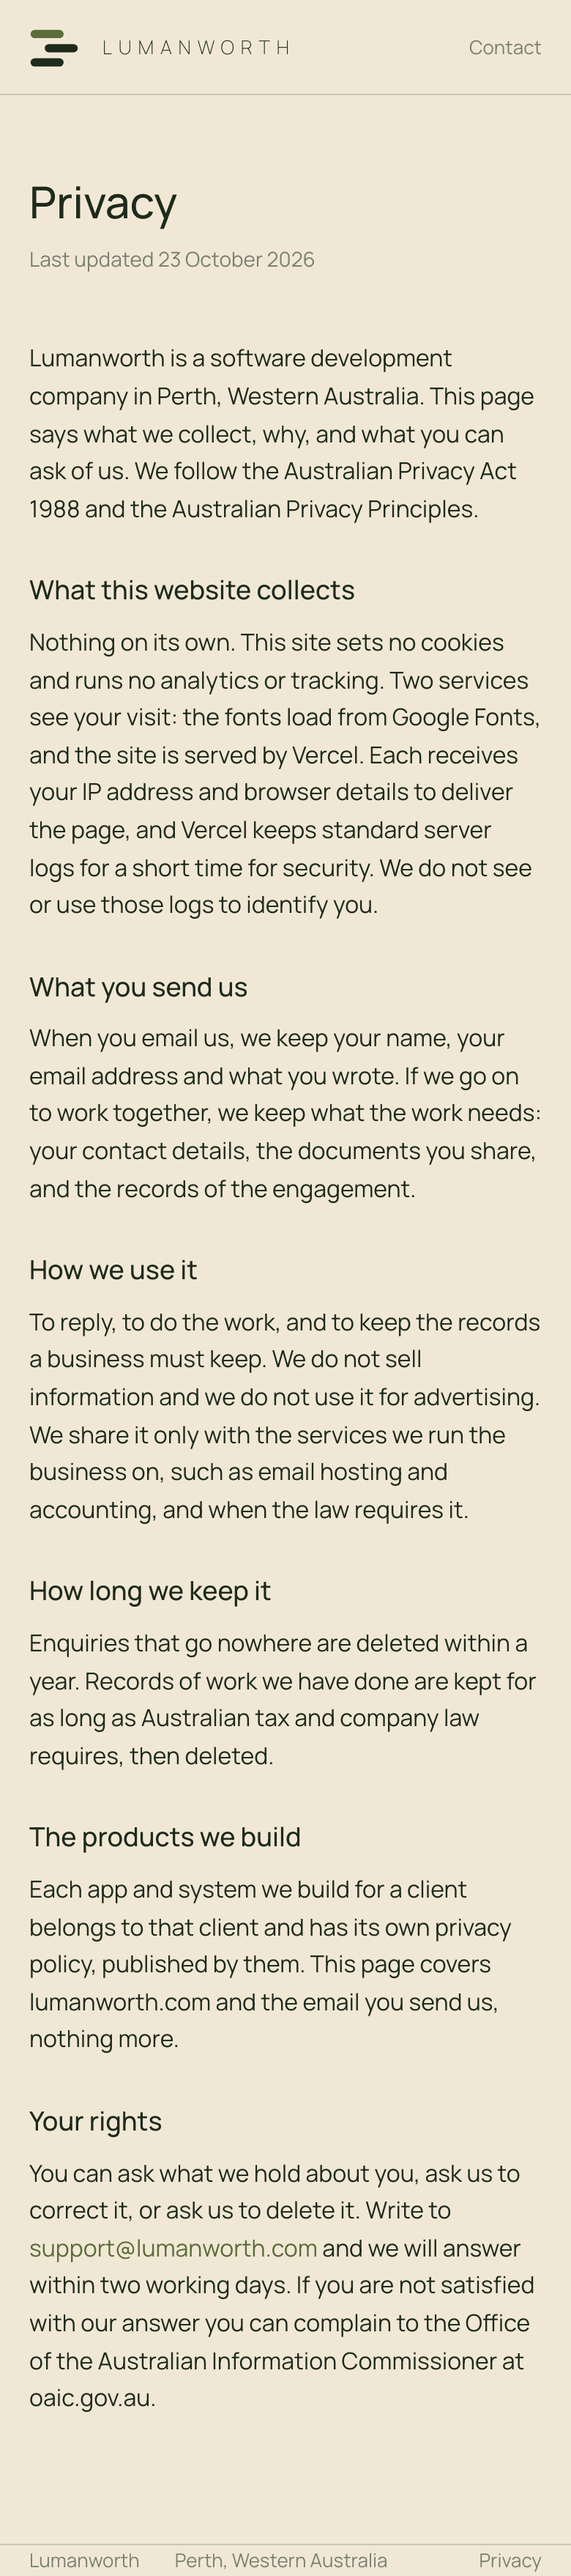
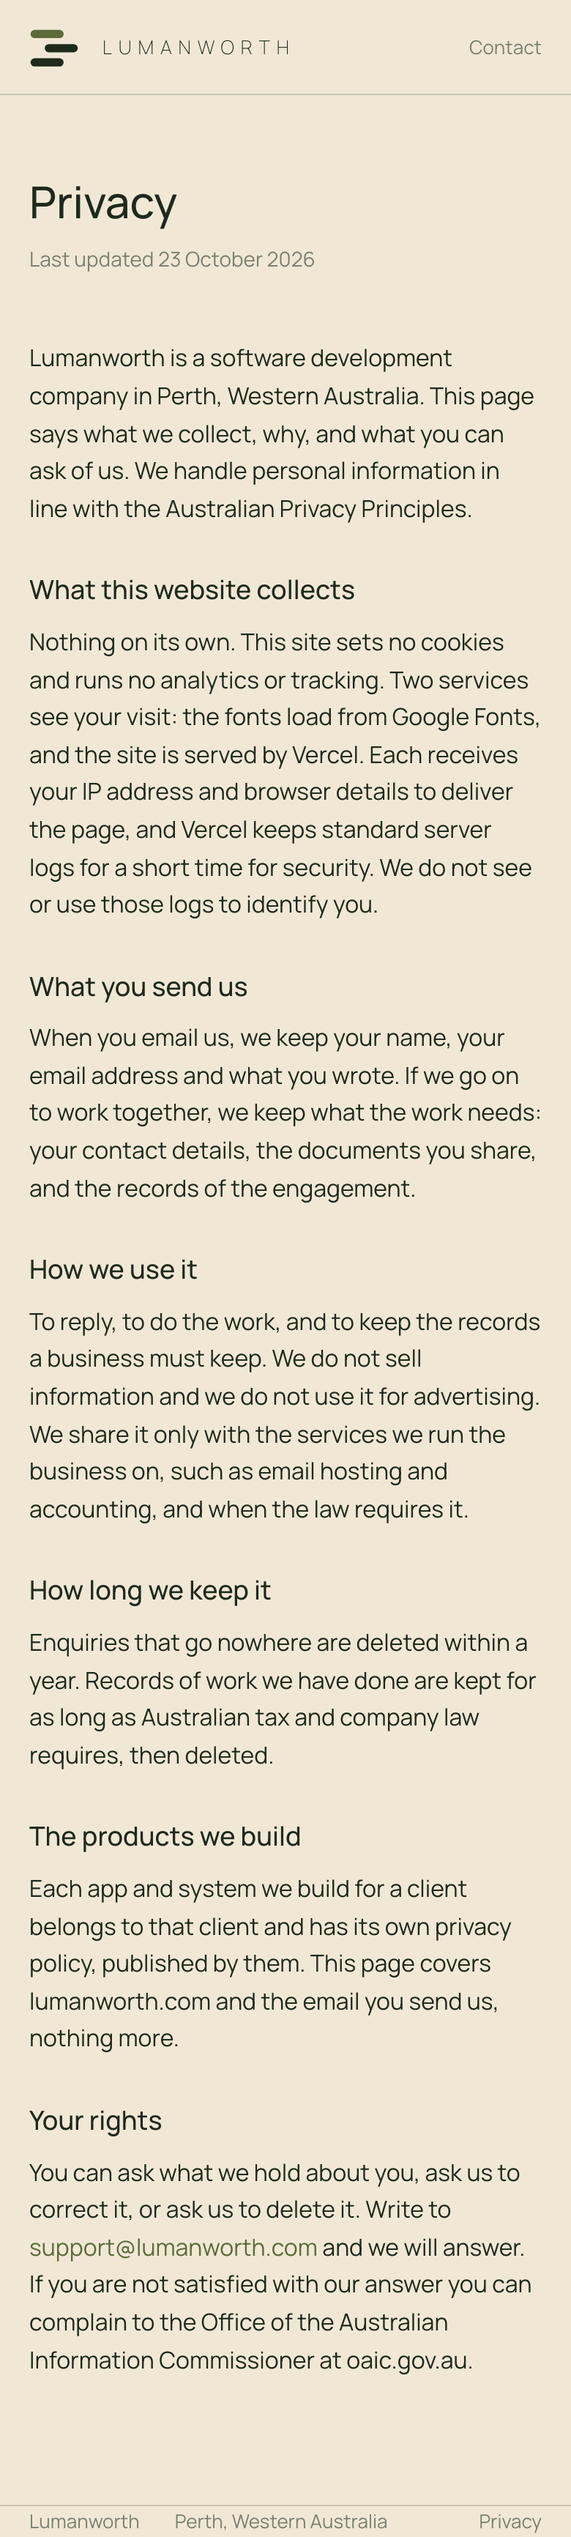
Website: red team fixes, one mark, no stack

Changed region(s): [[0.0308, 0.0624, 0.9538, 0.9353], [0.0615, 0.0624, 0.0923, 0.0935]]

diff --git a/index.html b/index.html
@@ -1,6 +1,6 @@
 <!doctype html><html lang="en-AU"><head><meta charset="utf-8"><meta name="viewport" content="width=device-width,initial-scale=1"><link rel="icon" href="assets/icon-32.png" sizes="32x32"><link rel="apple-touch-icon" href="assets/icon-180.png">
 <title>Lumanworth</title>
-<meta name="description" content="Lumanworth is a private software company in Perth, Western Australia. We design, build and run websites, apps and enterprise systems for other companies.">
+<meta name="description" content="Lumanworth is a private software company in Perth, Western Australia. We design, build and run websites, apps and business systems for other companies.">
 <link rel="preconnect" href="https://fonts.googleapis.com"><link href="https://fonts.googleapis.com/css2?family=Manrope:wght@200;400;500&display=swap" rel="stylesheet">
 <style>
 :root{--ink:#1E2A1C;--moss:#5B6B3A;--bark:#4A3220;--cream:#F0E8D5;--line:#CAC6B4;--mute:#7B8071;--card:#F9F6EE}
@@ -58,43 +58,43 @@ footer{flex-wrap:wrap;gap:12px 24px;padding:28px 20px}footer span:last-child{mar
 <header><div class="wrap bar"><a class="brand" href="/"><svg viewBox="0 0 42 36" width="34" height="29"><rect x="1" y="3" width="28" height="7" rx="3.5" fill="#5B6B3A"/><rect x="13" y="15" width="28" height="7" rx="3.5" fill="#1E2A1C"/><rect x="1" y="27" width="28" height="7" rx="3.5" fill="#1E2A1C"/></svg><span class="wm">Lumanworth</span></a><nav><a class="hide" href="#build">What we build</a><a class="hide" href="#how">How we work</a><a class="hide" href="#company">Company</a><a href="#contact">Contact</a></nav></div></header>
 <div class="wrap hero">
 <div><h1>Software, built properly.</h1>
-<p class="lede">Lumanworth is a private software company in Perth, Western Australia. We design, build and run websites, apps and enterprise systems for other companies.</p>
+<p class="lede">Lumanworth is a private software company in Perth, Western Australia. We design, build and run websites, apps and business systems for other companies.</p>
 <a class="btn p" href="#contact">Get in touch</a></div>
-<svg viewBox="0 0 42 36" aria-hidden="true"><rect x="1" y="3" width="28" height="7" rx="3.5" fill="#5B6B3A"/><rect x="13" y="15" width="28" height="7" rx="3.5" fill="#1E2A1C"/><rect x="1" y="27" width="28" height="7" rx="3.5" fill="#4A3220"/></svg>
+<svg viewBox="0 0 42 36" aria-hidden="true"><rect x="1" y="3" width="28" height="7" rx="3.5" fill="#5B6B3A"/><rect x="13" y="15" width="28" height="7" rx="3.5" fill="#1E2A1C"/><rect x="1" y="27" width="28" height="7" rx="3.5" fill="#1E2A1C"/></svg>
 </div>
 
 <section id="build"><div class="wrap"><h2>What we build</h2>
 <div class="g3">
-<div class="card"><div class="ln"></div><h3>Websites</h3><p>Company sites, product sites and the pages behind a campaign. Fast, accessible, measured, and kept that way after launch.</p></div>
-<div class="card"><div class="ln" style="background:#1E2A1C"></div><h3>Apps</h3><p>iOS, Android and web. Bookings, rostering, dispatch, memberships, payments and the admin behind them.</p></div>
-<div class="card"><div class="ln" style="background:#4A3220"></div><h3>Enterprise systems</h3><p>Systems for regulated and industrial work: audit trails, offline capture, role based access, migrations and release evidence.</p></div>
+<div class="card"><div class="ln"></div><h3>Websites</h3><p>Company and product sites. Fast, accessible and kept that way after launch.</p></div>
+<div class="card"><div class="ln" style="background:#1E2A1C"></div><h3>Apps</h3><p>iOS, Android and web. Bookings, rostering, payments and the admin behind them.</p></div>
+<div class="card"><div class="ln" style="background:#4A3220"></div><h3>Systems</h3><p>The complex ones: many users, many roles, records that have to hold up, and the reporting on top.</p></div>
 </div></div></section>
 
 <section id="how"><div class="wrap"><h2>How we work</h2>
 <div class="g4">
 <div><span class="num">01</span><h3>Brief</h3><p>We read everything you have and write back one page in plain words. The first stage is agreed before anyone quotes.</p></div>
 <div><span class="num">02</span><h3>Design</h3><p>Flows before screens. You see and accept the pictures before we build them.</p></div>
-<div><span class="num">03</span><h3>Build and review</h3><p>Small changes, independent review, tests on every one. Sign in, data and payments get a second reviewer.</p></div>
-<div><span class="num">04</span><h3>Release</h3><p>Preview first, then live on your approval, with a changelog you can read and a runbook your people can follow.</p></div>
+<div><span class="num">03</span><h3>Build</h3><p>Small changes, each reviewed and tested before it goes anywhere near a customer.</p></div>
+<div><span class="num">04</span><h3>Release</h3><p>You see it on a preview first. It goes live on your approval, with a changelog you can read.</p></div>
 </div></div></section>
 
 <section class="dark"><div class="wrap"><h2>What you get</h2>
 <div class="kv2">
-<div><b>Your code, your accounts, your data</b><p>Every repository, hosting account and database is set up in your name from the first day. Nothing is held back and nothing is rented to you.</p></div>
-<div><b>Reviewed before it ships</b><p>Every change is reviewed and tested before it reaches a customer. Security sensitive work gets a second, independent review.</p></div>
-<div><b>Written down</b><p>A runbook, a changelog and decision records, so the next engineer, yours or ours, can pick the product up cold.</p></div>
-<div><b>Run, not just built</b><p>We can keep operating what we build: monitoring, updates, support and releases, on a retainer or until your own team takes it on.</p></div>
+<div><b>Your code, your accounts, your data</b><p>What we build for you is set up in your name. Ownership is agreed in writing before work starts.</p></div>
+<div><b>Reviewed before it ships</b><p>Every change is reviewed and tested before release. Sign in, data and payments are reviewed again against a written checklist.</p></div>
+<div><b>Written down</b><p>A runbook and a changelog with every product, so the next engineer can pick it up cold.</p></div>
+<div><b>Run, not just built</b><p>We can keep operating what we build, with updates, support and releases, until your own team takes it on.</p></div>
 </div></div></section>
 
-<section id="company"><div class="wrap g2"><div><h2>The company</h2><p style="color:var(--mute);font-size:16px;max-width:400px">Lumanworth is privately owned and run from Perth. We work with a small number of clients at a time, directly with the people who own the product.</p></div>
+<section id="company"><div class="wrap g2"><div><h2>The company</h2><p style="color:var(--mute);font-size:16px;max-width:400px">Lumanworth is privately owned, founder led and run from Perth. We work directly with the people who own the product.</p></div>
 <div class="facts">
 <span>Based</span><span>Perth, Western Australia</span>
-<span>Work</span><span>Websites, apps and enterprise systems, built for clients and operated on request</span>
-<span>Stack</span><span>TypeScript, Next.js, React Native, Postgres, hosted on Vercel and Supabase, Australian regions where the client needs them</span>
+<span>Work</span><span>Websites, apps and business systems, built for clients and run on request</span>
 <span>Clients</span><span>By introduction. We do not advertise and we do not publish client names.</span>
+<span>Company</span><span>Lumanworth Pty Ltd, registration in progress</span>
 </div></div></section>
 
-<section id="contact"><div class="wrap g2"><div><h2>Contact</h2></div><div><p style="font-size:18px;max-width:520px;line-height:1.6">Write to <a href="mailto:support@lumanworth.com" style="color:var(--moss)">support@lumanworth.com</a> with what you are building and who sent you.</p><p style="color:var(--mute);margin-top:18px;font-size:15px">We reply within two working days.</p></div></div></section>
+<section id="contact"><div class="wrap g2"><div><h2>Contact</h2></div><div><p style="font-size:18px;max-width:520px;line-height:1.6">Write to <a href="mailto:support@lumanworth.com" style="color:var(--moss)">support@lumanworth.com</a> with what you are building and who sent you.</p><p style="color:var(--mute);margin-top:18px;font-size:15px">We reply to introductions we can help with.</p></div></div></section>
 
 <footer class="wrap"><span>Lumanworth</span><span>Perth, Western Australia</span><a style="margin-left:auto" href="/privacy">Privacy</a></footer>
 </body></html>

diff --git a/privacy.html b/privacy.html
@@ -52,7 +52,7 @@ footer{flex-wrap:wrap;gap:12px 24px;padding:28px 20px}footer span:last-child{mar
 <div class="wrap prose">
 <h1>Privacy</h1>
 <p class="date">Last updated 23 October 2026</p>
-<p>Lumanworth is a software development company in Perth, Western Australia. This page says what we collect, why, and what you can ask of us. We follow the Australian Privacy Act 1988 and the Australian Privacy Principles.</p>
+<p>Lumanworth is a software development company in Perth, Western Australia. This page says what we collect, why, and what you can ask of us. We handle personal information in line with the Australian Privacy Principles.</p>
 
 <h2>What this website collects</h2>
 <p>Nothing on its own. This site sets no cookies and runs no analytics or tracking. Two services see your visit: the fonts load from Google Fonts, and the site is served by Vercel. Each receives your IP address and browser details to deliver the page, and Vercel keeps standard server logs for a short time for security. We do not see or use those logs to identify you.</p>
@@ -70,7 +70,7 @@ footer{flex-wrap:wrap;gap:12px 24px;padding:28px 20px}footer span:last-child{mar
 <p>Each app and system we build for a client belongs to that client and has its own privacy policy, published by them. This page covers lumanworth.com and the email you send us, nothing more.</p>
 
 <h2>Your rights</h2>
-<p>You can ask what we hold about you, ask us to correct it, or ask us to delete it. Write to <a href="mailto:support@lumanworth.com">support@lumanworth.com</a> and we will answer within two working days. If you are not satisfied with our answer you can complain to the Office of the Australian Information Commissioner at oaic.gov.au.</p>
+<p>You can ask what we hold about you, ask us to correct it, or ask us to delete it. Write to <a href="mailto:support@lumanworth.com">support@lumanworth.com</a> and we will answer. If you are not satisfied with our answer you can complain to the Office of the Australian Information Commissioner at oaic.gov.au.</p>
 </div>
 
 <footer class="wrap"><span>Lumanworth</span><span>Perth, Western Australia</span><a style="margin-left:auto" href="privacy.html">Privacy</a></footer>
